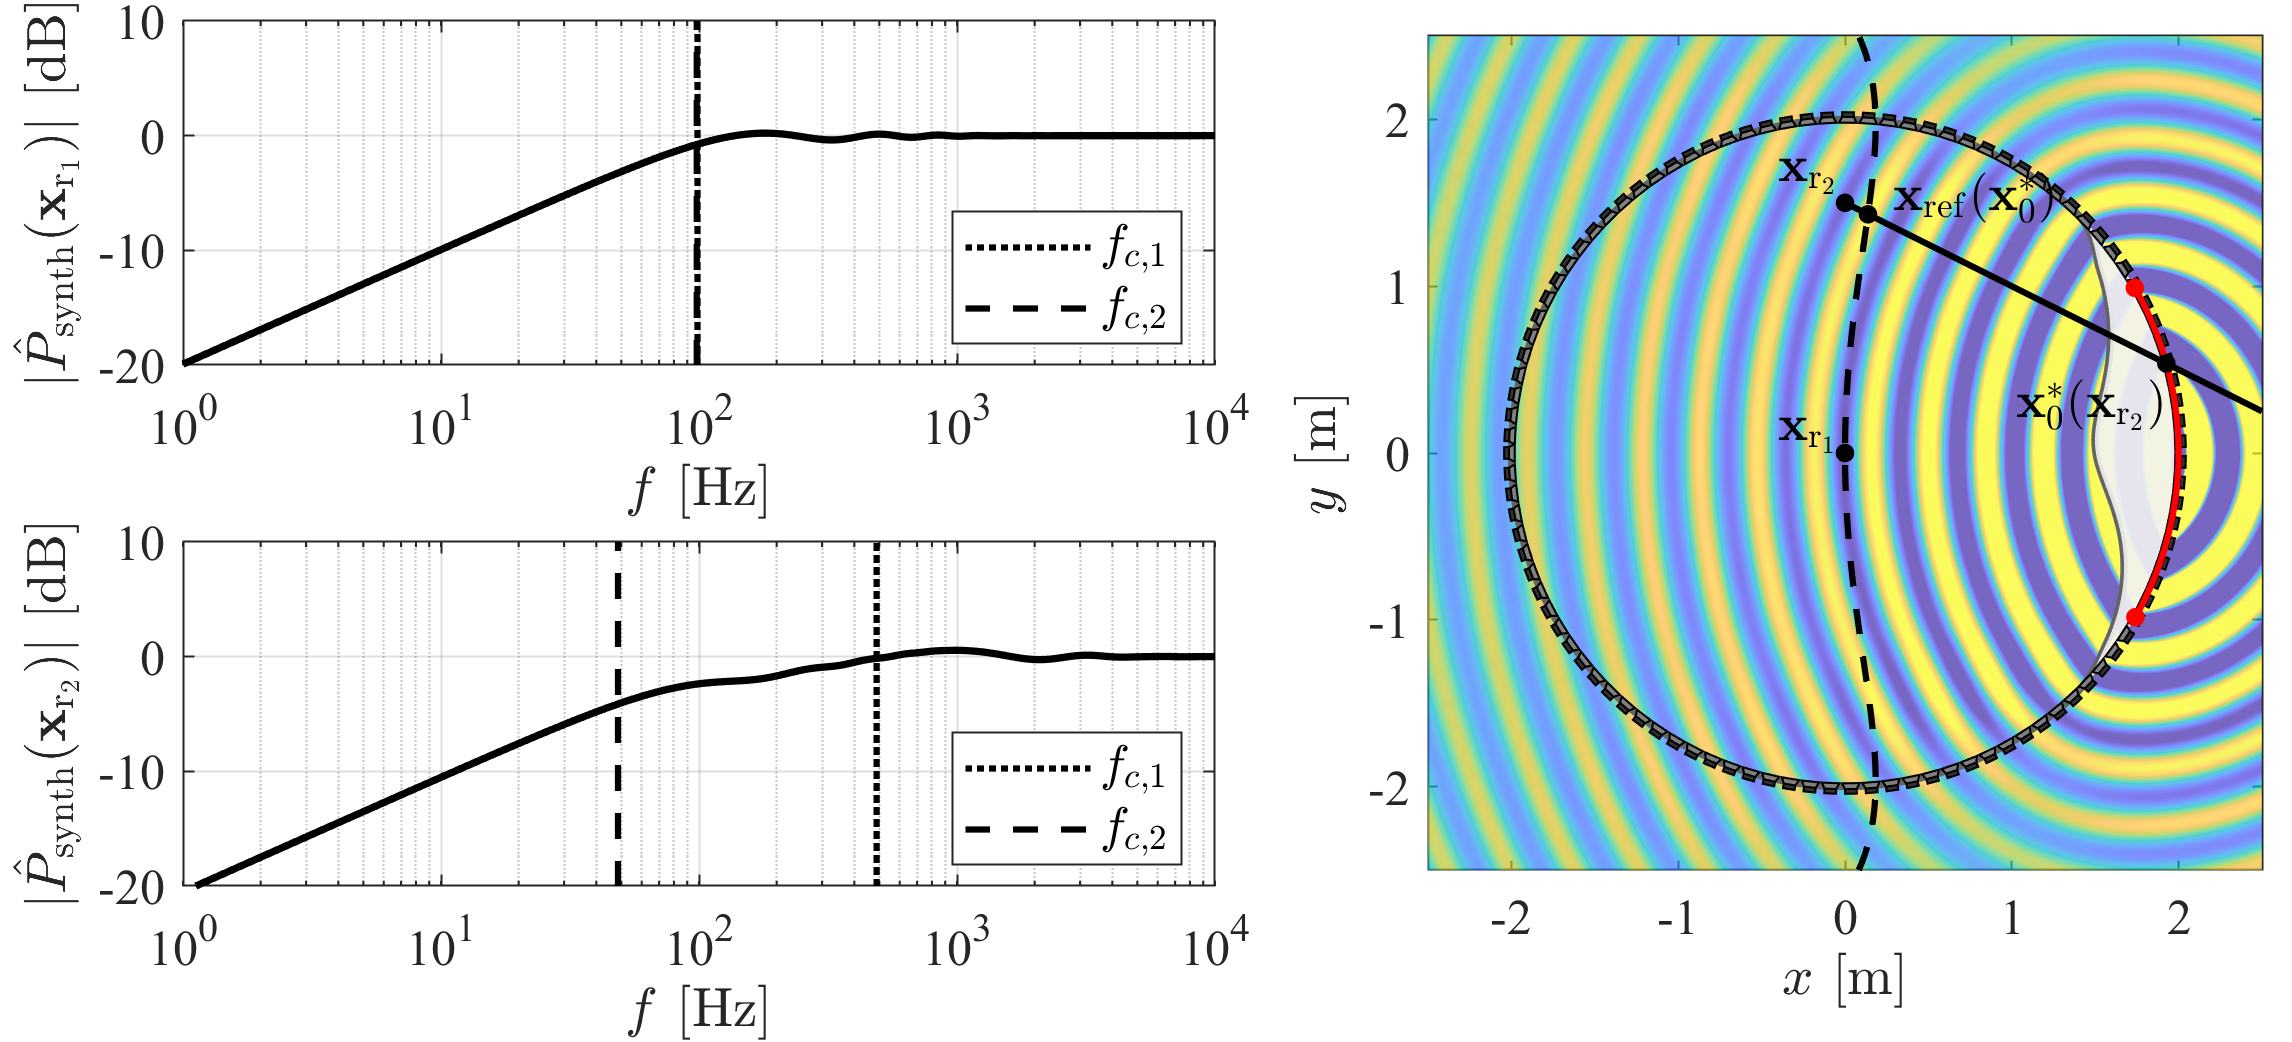
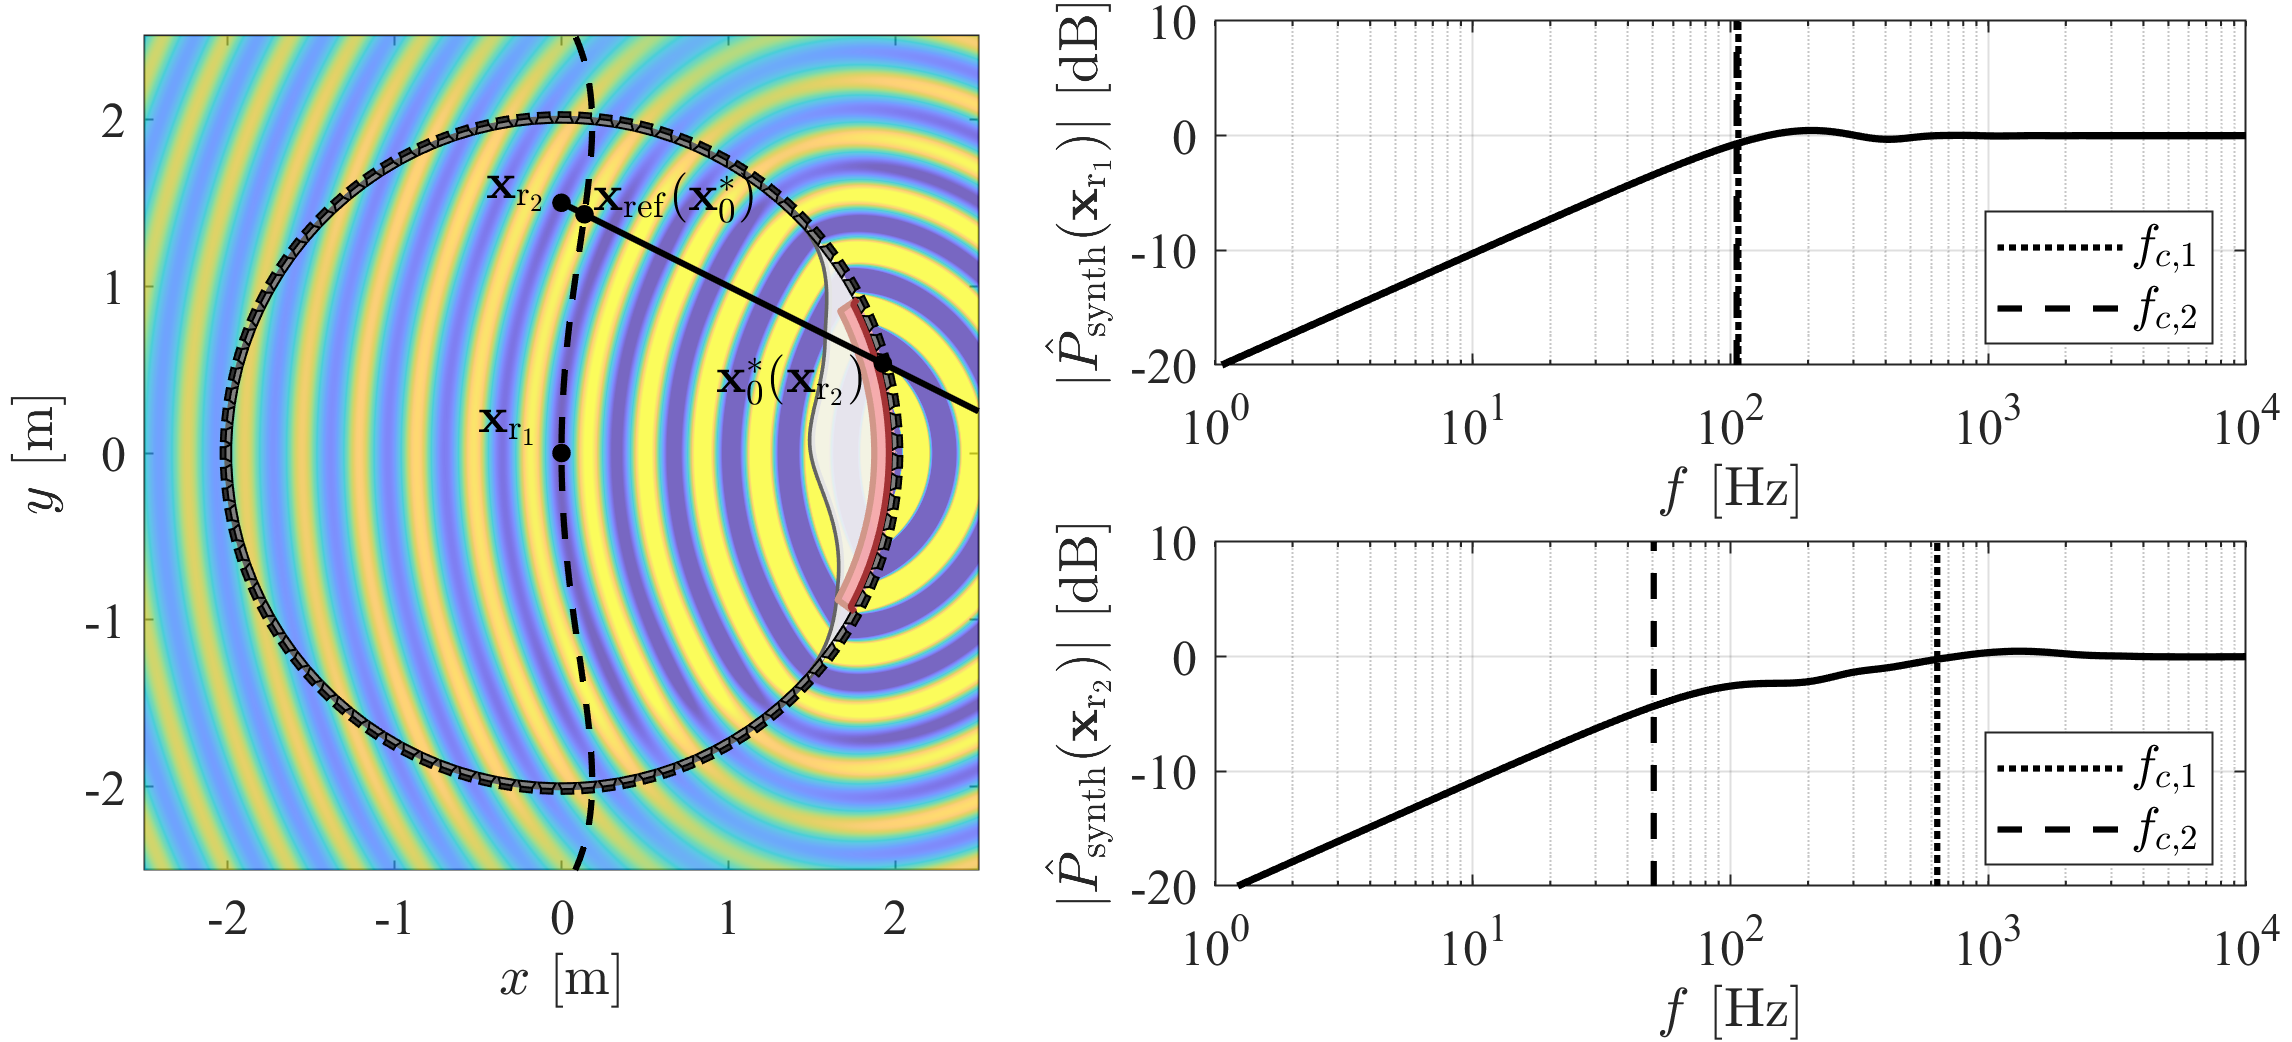
..

diff --git a/paper/main.tex b/paper/main.tex
@@ -614,15 +614,6 @@ From the effective window length the lower cutoff frequencies can be calculated 
 
 \section{Application examples}
 
-\begin{figure} 
-  \begin{center}
-    \begin{overpic}[width = 1\columnwidth ]{figs/Psynth_linear_ps.png}
-	\end{overpic}
-\end{center}
-\caption{Geometry for deriving 2.5D Kirchhoff approximation and WFS driving functions.}
-	\label{Fig:Psynth_linear}
-\end{figure}
-
 \subsection{Cutoff freuqency for simple WFS geometries}
 Next the application of the previous results is investigated in simple practical WFS scenarios: in case of the syntehsis of a point source and a plane wave by using linear and circular SSDs.
 
@@ -630,20 +621,35 @@ Next the application of the previous results is investigated in simple practical
 For the case of a virtual   point source located at $\vxs = \posvec{3}{x_s}{y_s}{0}$ the principle radii and the local wavenumber vector specializes to $\rho^P_{\mathrm{v/h}}(\vx) = |\vx-\vxs|$, $\vk^P(\vx) = \frac{\vx-\vxs}{|\vx-\vxs|}$.
 The amplitude of the integrand describing the synthesized field is given by
 \begin{multline}
-A^{D\cdot P}(\vx,\vxo) = w(\vxo) \, \sqrt{\frac{|\vxref(\vxo)-\vxo| }{|\vxref(\vxo)-\vxo| + |\vxo - \vxs|}}  \cdot
+A^{D\cdot P}(\vx,\vxo) = w(\vxo) \, \sqrt{\frac{ |\vxref(\vxo)-\vxo| }{F\,|\vxref(\vxo)-\vxo| + |\vxo - \vxs|}}  \cdot
  \\  \frac{\left<\vxo-\vxs \cdot \mathbf{n}(\vxo) \right>}{|\vxo-\vxs|^{3/2}}  \frac{1}{|\vx-\vxo|},
 \end{multline}
-from which---once the reference curve is defined---the effective lengthes can be calculated according to \eqref{eq:Leff}.
+where $F$ is a focused flag, accounting for the synthesis of focused point sources as described in \cite{Firtha2025_ieee_a}.
+Once the reference curve is defined the effective lengthes can be calculated from the above amoplitude distribution according to \eqref{eq:Leff}.
 In order to evaluate the low frequency limit at $\vx$ one has to find the corresponding stationary SSD element $\vxo^*(\vx)$, which is simply given by the intersection of the SSD and the line connecting the virtual source and the receiver position, as shown e.g. in Fig~\ref{Fig:Psynth_linear}.
 Finally, the low frequency limit can be calculated as
 \begin{equation}
   \small
   k_{c,1/2}^{\mathrm{PS}}(\vx) = \frac{\pi}{2} 
-  \frac{|\vx-\vxo^*|\,|\vxo^* - \vxs| }{|\vx-\vxo^*| + |\vxo^* - \vxs|}
+  \frac{|\vx-\vxo^*|\,|\vxo^* - \vxs| }{F |\vx-\vxo^*| + |\vxo^* - \vxs|}
   \frac{1}{
    \hat{L}_{\mathrm{eff},1/2}(\vx) ^2 \hat{k}_{\mathrm{n}}(\vxo^*)^2  }.
   \label{eq:low_freq_limit_PS}
 \end{equation}
+
+
+\begin{figure} 
+  \begin{center}
+    \begin{overpic}[width = 1\columnwidth]{figs/Psynth_linear_ps.png}
+            \scriptsize \put(0,10){(a)}
+            \scriptsize \put(58,0){(b)}
+	\end{overpic}
+\end{center}
+\caption{Synthesis of a point source by using a finite linear SSD segment with the total length of 3~m.
+Figure (a) depicts the synthesized field along with the investigation setup 
+Figure (b) shows the frequency response in the frontal ($\vx_{\mathrm{r}_1} = \posvec{2}{0}{1}~\mathrm{m}$) and an examplery lateral ($\vx_{\mathrm{r}_1} = \posvec{2}{1.5}{1}~\mathrm{m}$) receiver position, both chosen to lie on the reference line in the present example, with highlighting the estimated lower cutoff frequencies.}
+	\label{Fig:Psynth_linear}
+\end{figure}
 
 \paragraph{Cutoff frequency for a virtual plane wave}
 For the special case of a virtual plane wave, propagating towards the direction $\vk^{\mathrm{PW}}$ for the principle radii $\rho^P_{\mathrm{v/h}}(\vx) =\infty$ holds, and the integrand amplitude is given by
@@ -665,7 +671,7 @@ The stationary SSD element $\vxo^*(\vx)$ is found from the intersection of the S
 Figure \ref{Fig:Psynth_linear} presents the case of synthesis of a point source applying a linear SSD along $y = 0$. 
 The reference curve is chosen to be a reference line, parallel to the SSD at $y = \yref$.
 This setup is usually termed as traditional WFS, being the geometry for which WFS theory was first formulated \cite{Berkhout1988}.
-In this geometry from simple triangule similarities $\frac{|\vxref(\vxo)-\vxo| }{|\vxref(\vxo)-\vxo| + |\vxo - \vxs|} = \frac{\yref}{\yref - \ys}$ holds for the virtual point source case.
+In this geometry from simple triangle similarities $\frac{|\vxref(\vxo)-\vxo| }{|\vxref(\vxo)-\vxo| + |\vxo - \vxs|} = \frac{\yref}{\yref - \ys}$ holds for the virtual point source case.
 
 Figure \ref{Fig:Psynth_circular} presents the case of synthesis applying a circular SSD centered at the origin with the radius $\Rssd = 2~\mathrm{m}$. 
 Figure (a), (b) and (c) show the synthesis of a plane wave, a point source and the special case of a focused point source respectively.
@@ -675,23 +681,28 @@ This results in a reference curve varying with the virtual source model (as desc
 \begin{figure} 
   \begin{center}
     \begin{overpic}[width = 1\columnwidth ]{figs/Psynth_circular_pw.png}
+      \scriptsize \put(0,0){(a)}
+      \scriptsize \put(45,0){(b)}
 	\end{overpic}
  \\ \vspace{5mm}
     \begin{overpic}[width = 1\columnwidth ]{figs/Psynth_circular_ps.png}
+      \scriptsize \put(0,0){(c)}
+      \scriptsize \put(45,0){(d)}
 	\end{overpic}
  \\ \vspace{5mm}
     \begin{overpic}[width = 1\columnwidth ]{figs/Psynth_circular_fps.png}
+      \scriptsize \put(0,0){(e)}
+      \scriptsize \put(45,0){(f)}
 	\end{overpic}
 \end{center}
-\caption{Geometry for deriving 2.5D Kirchhoff approximation and WFS driving functions.}
+\caption{Synthesis of a plane wave (a-b), an unfocused point source at $\vxs = \posvec{2}{3}{0}~\mathrm{m}$ (c-d) and a focused point source at at $\vxs = \posvec{2}{1}{0}~\mathrm{m}$ (e-f) by using a circular SSD with $\Rssd = 2~\mathrm{m}$.
+Figure (a,c,e) depicts the synthesized field along with the investigation setup 
+Figure (b,d,f) shows the frequency response in the frontal ($\vx_{\mathrm{r}_1} = \posvec{2}{0}{0}~\mathrm{m}$) and an examplery lateral ($\vx_{\mathrm{r}_1} = \posvec{2}{0}{1.5}~\mathrm{m}$) receiver position, both chosen to lie on the reference line in the present example, with highlighting the estimated lower cutoff frequencies.}
 	\label{Fig:Psynth_circular}
 \end{figure}
 
 In each case the frequency response of the synthesized field along with the estimated low frequency limits are illustrated in the frontal direction and in an examplary lateral direction.
-The frequency response is normalized by it's ideal high frequency value, given by
-\begin{equation}
-  \hat{P}_{\mathrm{synth}}(\vx,f) = \frac{P_{\mathrm{synth}}(\vx,f)}{1}
-\end{equation}
+The frequency response is normalized by it's ideal high frequency value, given by \eqref{eq:WFS_amp_dist}.
 The amplitude of the integrands are illustrated by white fill along the SSD contour for the lateral direction example.
 The resulting effective lengthes around the stationary position are denoted by a red contour along the SSD.
 
